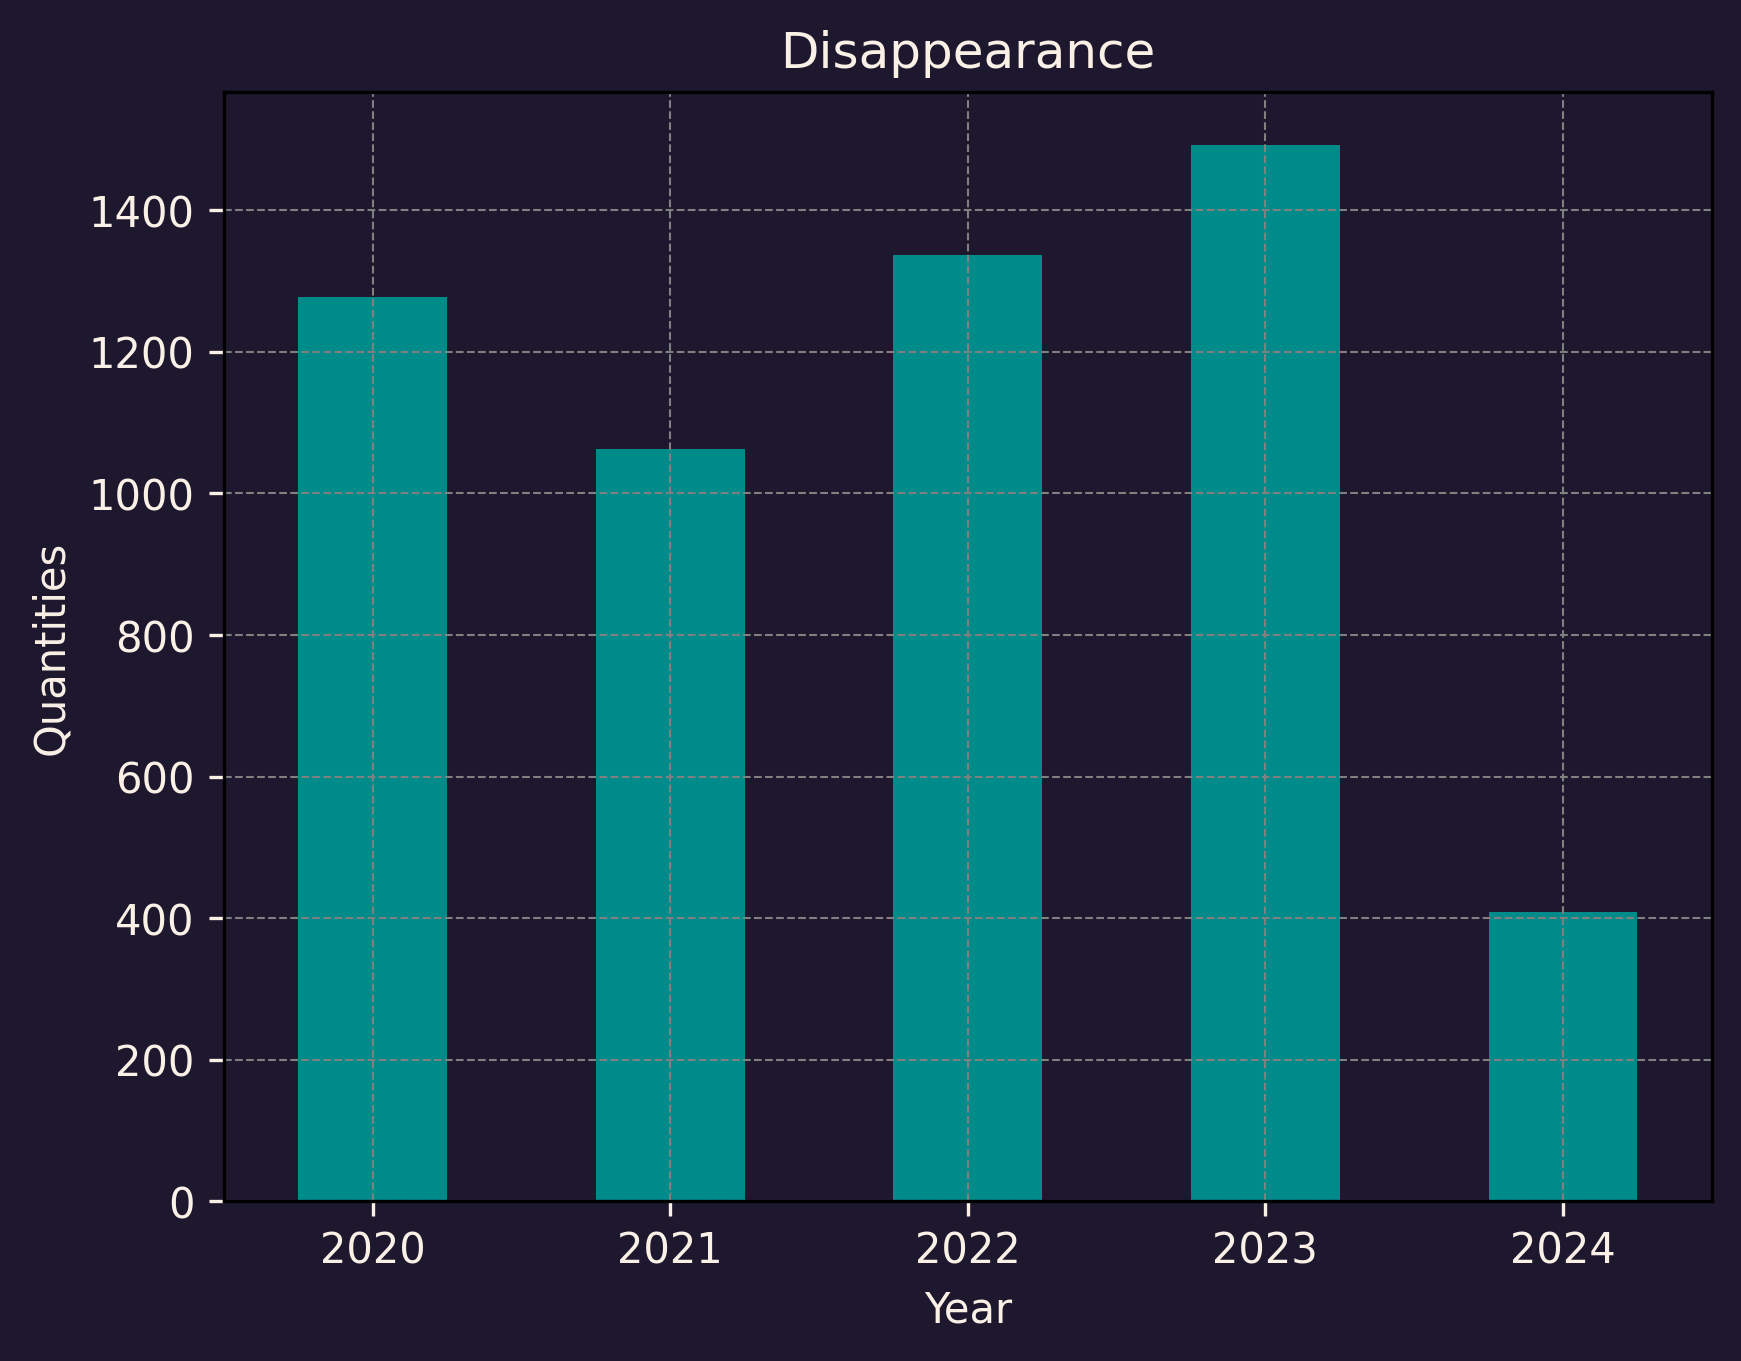
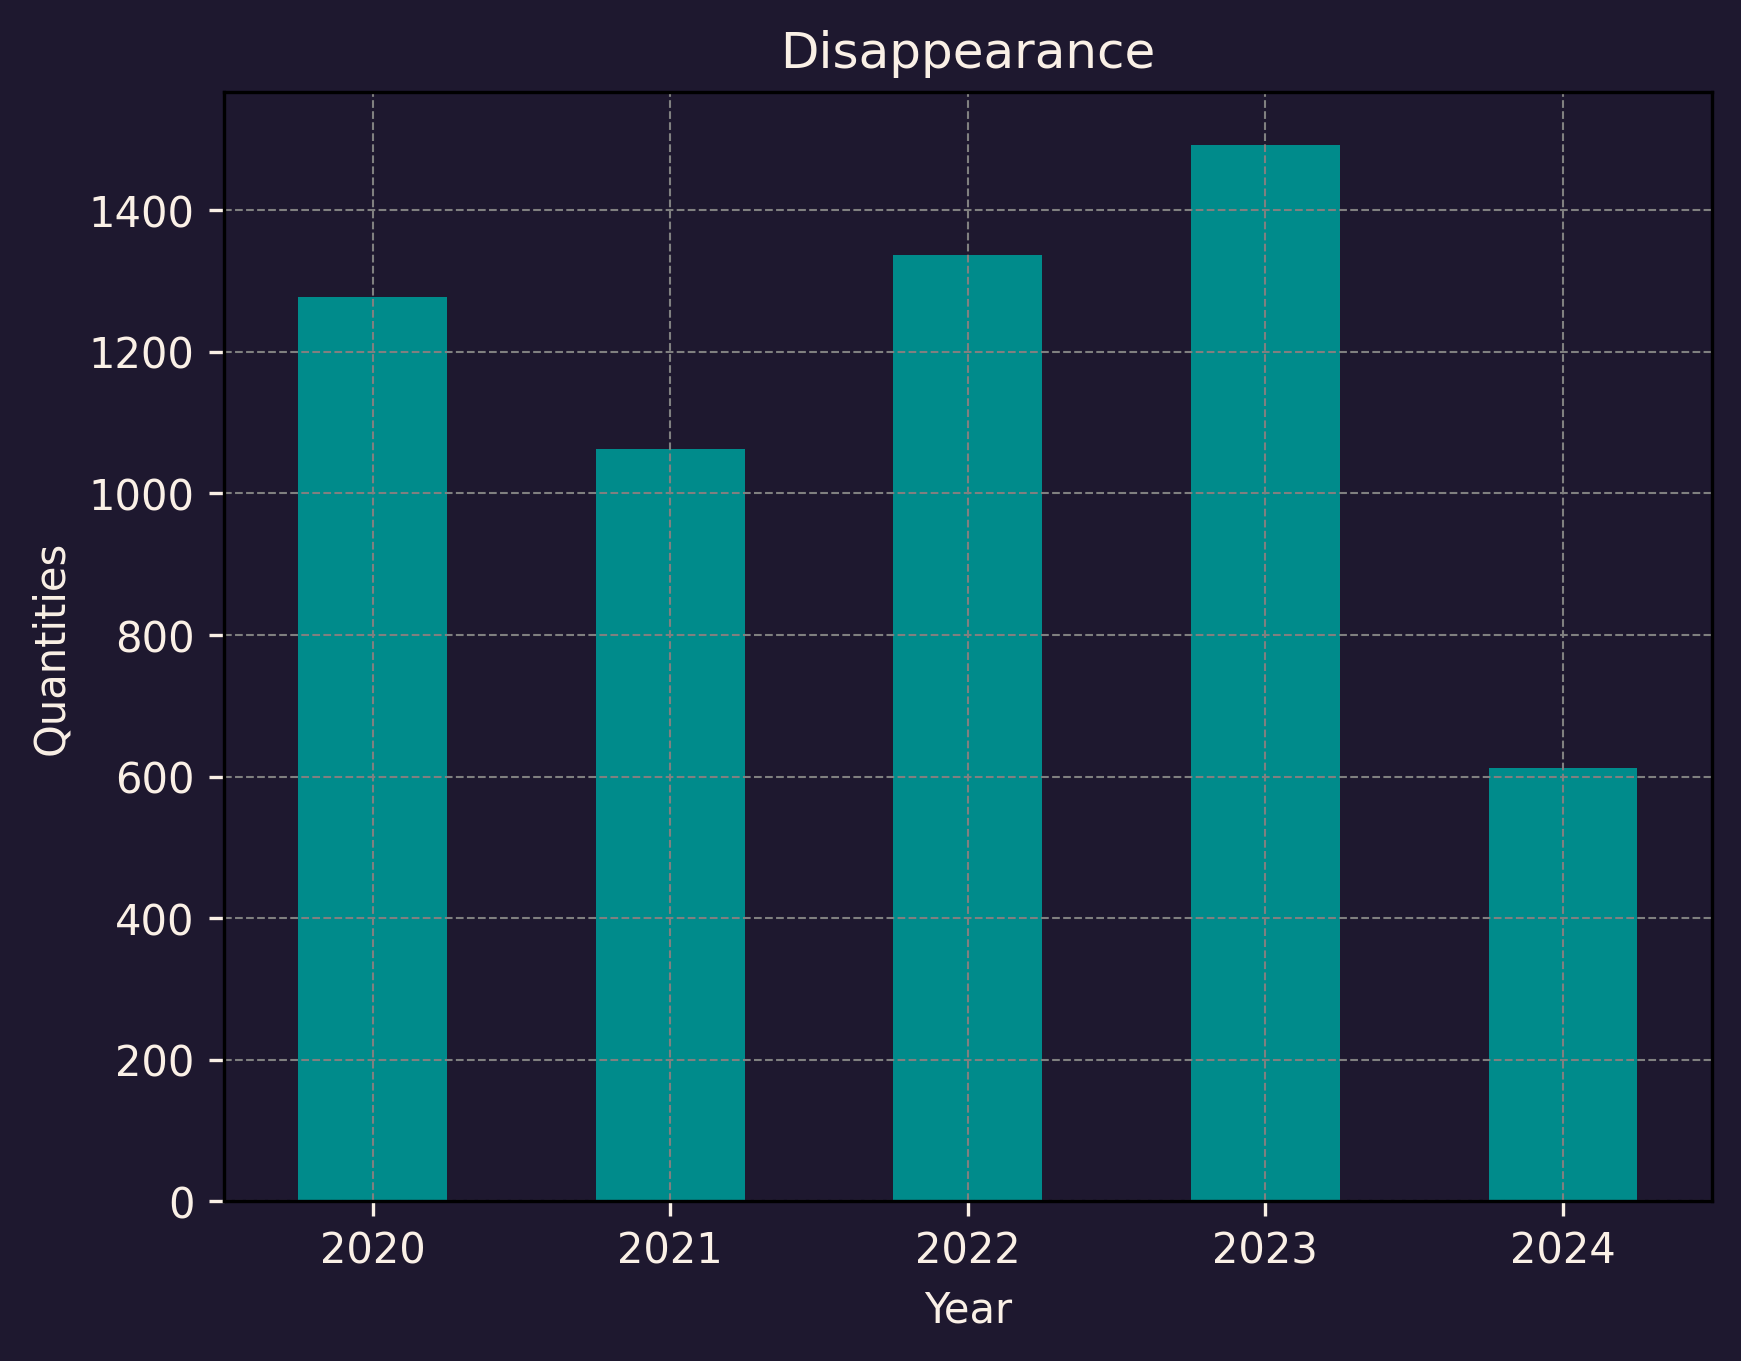
medializando

Changed region(s): [[0.8374, 0.5555, 0.9615, 0.6789]]

diff --git a/src/hypothesis_two/ploter.py b/src/hypothesis_two/ploter.py
@@ -42,6 +42,9 @@ def png_year(df: pd.DataFrame, path: str):
     except AttributeError:
         exit("png_year : The passed argument \"df\" is not a dataframe")
     
+    # Because 2024 has just 8 months of data
+    comparison[2024] = comparison[2024].apply(lambda x: (x//8)*12)
+    
     for i in df['year'].dropna().unique():
         
         fig, ax = plt.subplots()
@@ -90,6 +93,10 @@ def png_category(df: pd.DataFrame, path: str):
         exit('png_category : DataFrame don\'t have the columns \"year\" and/or \"category\"' )
     except AttributeError:
         exit("png_category : The passed argument \"df\" is not a dataframe")
+    
+    # Because 2024 has just 8 months of completed data
+    for i in df['category'].unique():
+        comparison.loc[i, 2024] = (comparison.loc[i, 2024] // 8) * 12
     
     for i in df['category'].dropna().unique():
         fig, ax = plt.subplots()

diff --git a/src/hypothesis_two/categorizer.py b/src/hypothesis_two/categorizer.py
@@ -54,8 +54,8 @@ def date_to_year(df: pd.DataFrame, column: str) -> pd.DataFrame:
     '''
     
     df_new = df.copy()
-    df_new['day'] = df_new[column].str.split('[ /]').str[0].astype(int)
-    df_new['month'] = df_new[column].str.split('[ /]').str[1].astype(int)
+    df_new['day'] = df_new[column].str.split('[ /]').str[1].astype(int)
+    df_new['month'] = df_new[column].str.split('[ /]').str[0].astype(int)
     df_new['year'] = df_new[column].str.split('[ /]').str[2].astype(int)
     df_new = df_new.drop(column, axis=1)
     return df_new
